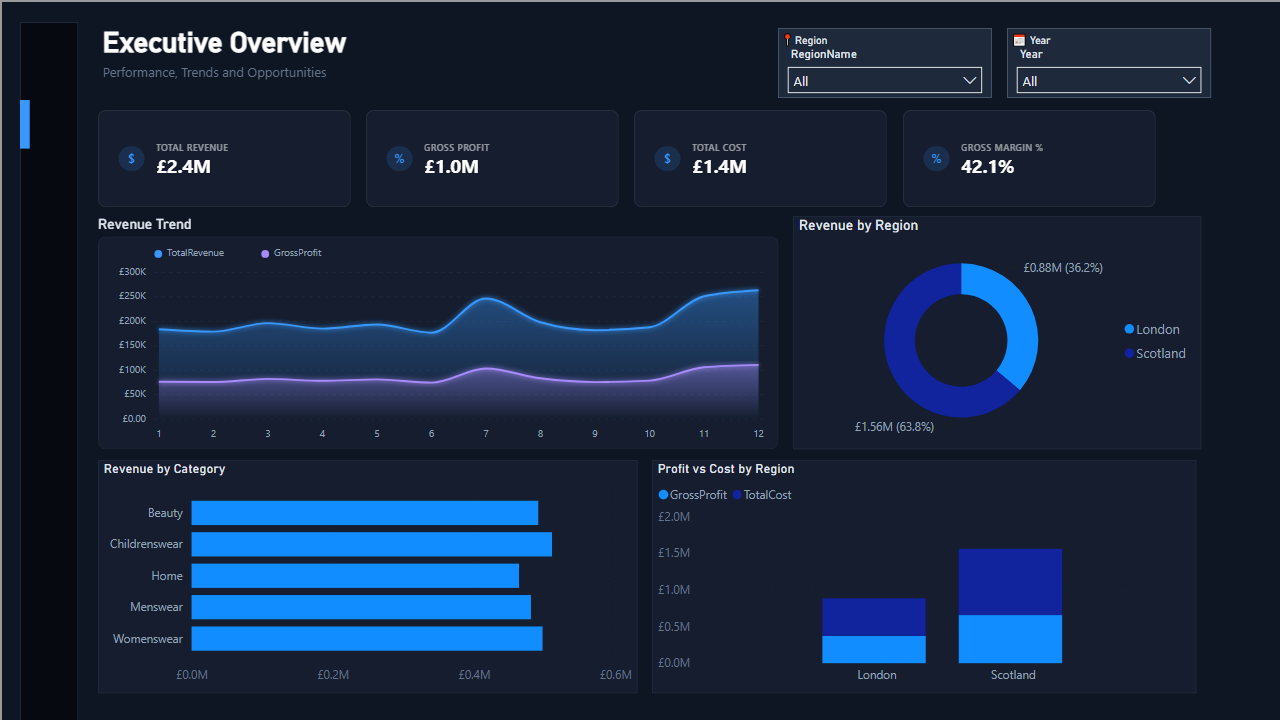
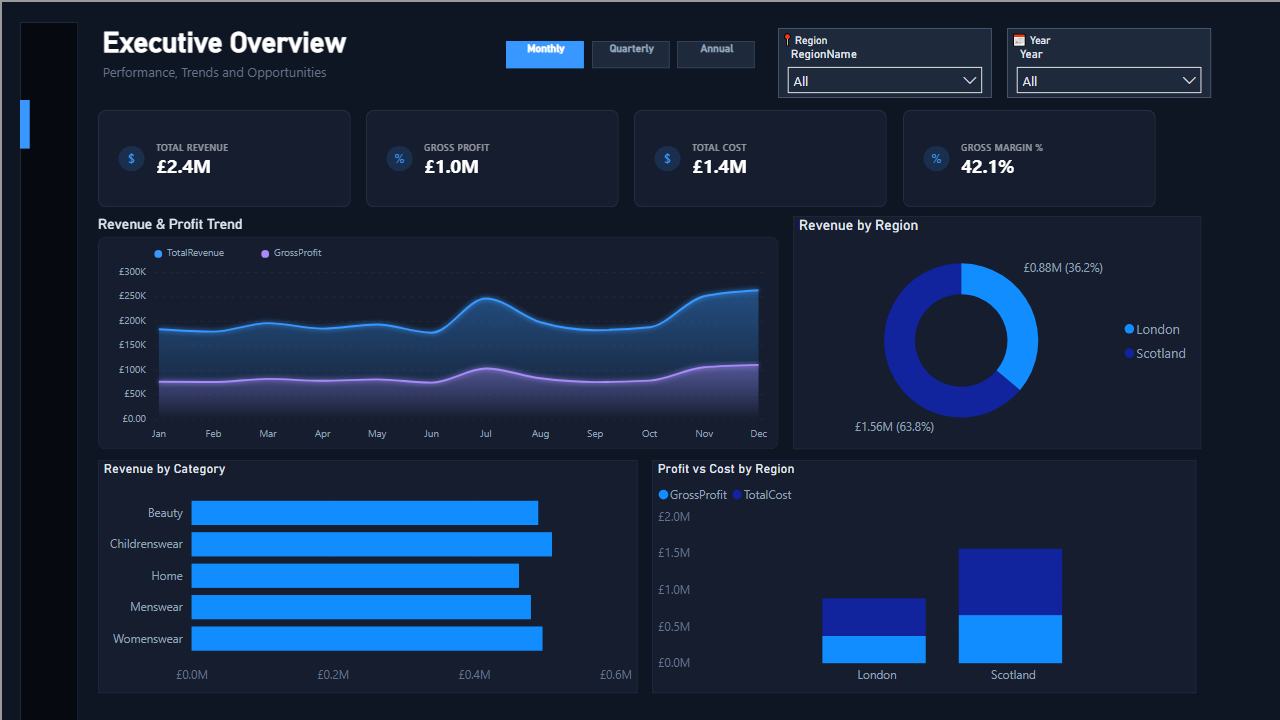
feat(07e): rename chart, month abbreviations, Monthly/Quarterly/Annual toggles

diff --git a/custom-visuals/premiumAreaChart/src/visual.ts b/custom-visuals/premiumAreaChart/src/visual.ts
@@ -114,6 +114,20 @@ export class Visual implements IVisual {
         return "£";
     }
 
+    private readonly MONTH_ABBR: string[] = [
+        "Jan", "Feb", "Mar", "Apr", "May", "Jun",
+        "Jul", "Aug", "Sep", "Oct", "Nov", "Dec"
+    ];
+
+    private formatCategory(value: string): string {
+        // If it's a numeric month (1-12), convert to 3-letter abbreviation
+        const num = parseInt(value, 10);
+        if (!isNaN(num) && num >= 1 && num <= 12) {
+            return this.MONTH_ABBR[num - 1];
+        }
+        return value;
+    }
+
     private formatYValue(value: number, currency: string): string {
         const abs = Math.abs(value);
         if (abs >= 1_000_000_000) {
@@ -265,7 +279,7 @@ export class Visual implements IVisual {
             .attr("fill", AXIS_COLOR)
             .attr("font-size", "10px")
             .attr("font-family", "'Segoe UI', sans-serif")
-            .text(d => d);
+            .text(d => this.formatCategory(d));
 
         // Y-axis labels
         const yAxisGroup = this.chartGroup.append("g");

diff --git a/scripts/_deploy_exec_v1.py b/scripts/_deploy_exec_v1.py
@@ -331,6 +331,51 @@ add("definition/pages/exec/visuals/slicer_year/visual.json", slicer2)
 # Don't add the card-as-title — just add a dummy for now
 add("definition/pages/exec/visuals/pagetitle/visual.json", title_vis)
 
+# ===== TIME PERIOD TOGGLES (Monthly / Quarterly / Annual) =====
+time_labels = ["Monthly", "Quarterly", "Annual"]
+time_x_start = 500
+time_btn_width = 80
+time_btn_gap = 8
+time_btn_y = 20
+time_btn_h = 28
+
+for ti, tlabel in enumerate(time_labels):
+    tx = time_x_start + ti * (time_btn_width + time_btn_gap)
+    is_active = (ti == 0)  # Monthly is active
+    bg_color = "'#3898ff'" if is_active else "'#1e293b'"
+    text_color = "'#ffffff'" if is_active else "'#94a3b8'"
+    border_color = "'#3898ff'" if is_active else "'#334155'"
+
+    tbtn = vis_container(f"time_btn_{ti}", tx, time_btn_y, time_btn_width, time_btn_h, 4990 + ti)
+    tbtn["visual"] = {
+        "visualType": "cardVisual",
+        "query": {"queryState": {"Values": {"projections": [{
+            "field": {"Measure": {"Expression": {"SourceRef": {"Entity": "Sales"}}, "Property": "TotalRevenue"}},
+            "queryRef": "Sales.TotalRevenue", "nativeQueryRef": "TotalRevenue",
+        }]}}},
+        "visualContainerObjects": {
+            "title": [{"properties": {
+                "show": {"expr": {"Literal": {"Value": "true"}}},
+                "text": {"expr": {"Literal": {"Value": "'" + tlabel + "'"}}},
+                "fontColor": {"solid": {"color": {"expr": {"Literal": {"Value": text_color}}}}},
+                "fontSize": {"expr": {"Literal": {"Value": "9D"}}},
+                "bold": {"expr": {"Literal": {"Value": "true"}}},
+                "alignment": {"expr": {"Literal": {"Value": "'center'"}}},
+            }}],
+            "background": [{"properties": {
+                "show": {"expr": {"Literal": {"Value": "true"}}},
+                "color": {"solid": {"color": {"expr": {"Literal": {"Value": bg_color}}}}},
+                "transparency": {"expr": {"Literal": {"Value": "0D"}}},
+            }}],
+            "border": [{"properties": {
+                "show": {"expr": {"Literal": {"Value": "true"}}},
+                "color": {"solid": {"color": {"expr": {"Literal": {"Value": border_color}}}}},
+            }}],
+        },
+        "drillFilterOtherVisuals": False,
+    }
+    add(f"definition/pages/exec/visuals/time_btn_{ti}/visual.json", tbtn)
+
 for i, (label, entity, prop) in enumerate(kpi_measures):
     x = kpi_start_x + i * (kpi_width + kpi_gap)
     vis = vis_container(f"kpi{i+1}", x, kpi_y, kpi_width, kpi_height, i)
@@ -379,7 +424,7 @@ hero_vis["visual"] = {
     "visualContainerObjects": {
         "title": [{"properties": {
             "show": {"expr": {"Literal": {"Value": "true"}}},
-            "text": {"expr": {"Literal": {"Value": "'Revenue Trend'"}}},
+            "text": {"expr": {"Literal": {"Value": "'Revenue & Profit Trend'"}}},
             "fontColor": {"solid": {"color": {"expr": {"Literal": {"Value": "'#e2e8f0'"}}}}},
             "fontSize": {"expr": {"Literal": {"Value": "12D"}}},
         }}],
